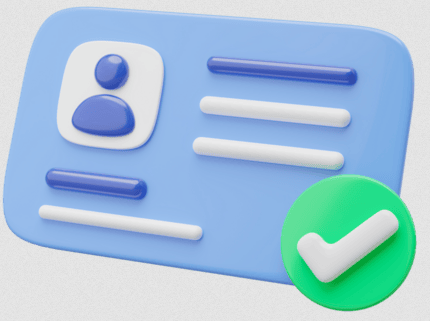
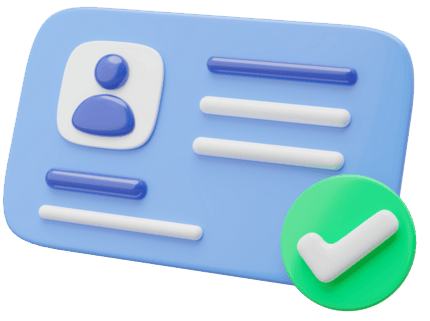
Portal V1.40: reupload do icone dados.png (fundo transparente) + cache-bust

Changed region(s): [[0.0, 0.0, 1.0, 1.0]]

diff --git a/index.html b/index.html
@@ -16,7 +16,7 @@
   <meta property="og:image:height" content="546" />
   <meta property="og:url" content="https://portal.prbelico.com.br/" />
   <meta property="og:type" content="website" />
-  <link rel="stylesheet" href="styles.css?v=1.39" />
+  <link rel="stylesheet" href="styles.css?v=1.40" />
   <link rel="icon" href="favicon.png" type="image/png" />
 </head>
 <body class="login-body">
@@ -61,7 +61,7 @@
         <span id="btn-texto">Entrar</span>
       </button>
 
-      <div style="text-align:center;font-size:11px;color:var(--muted);margin-top:10px">V1.39</div>
+      <div style="text-align:center;font-size:11px;color:var(--muted);margin-top:10px">V1.40</div>
 
       <div class="error-msg" id="erro"></div>
     </form>

diff --git a/portal.js b/portal.js
@@ -105,7 +105,7 @@ const ICONS = {
   validades:   `<img src="${IMG}validades.png?v=137" alt="" class="ico-img" onerror="this.style.display='none'">`,
   armas:       `<img src="${IMG}acervo.png?v=137" alt="" class="ico-img" onerror="this.style.display='none'">`,
   informacoes: `<img src="${IMG}informacoes.png?v=137" alt="" class="ico-img" onerror="this.style.display='none'">`,
-  dados:       `<img src="${IMG}dados.png?v=138" alt="" class="ico-img" onerror="this.style.display='none'">`,
+  dados:       `<img src="${IMG}dados.png?v=140" alt="" class="ico-img" onerror="this.style.display='none'">`,
 };
 
 // ---- ÍCONES DOS TIPOS DE ACERVO (imagens) ----

diff --git a/portal.html b/portal.html
@@ -8,7 +8,7 @@
   <meta http-equiv="Pragma" content="no-cache" />
   <meta http-equiv="Expires" content="0" />
   <title>Portal do Cliente — P&amp;R Despachante Bélico</title>
-  <link rel="stylesheet" href="styles.css?v=1.39" />
+  <link rel="stylesheet" href="styles.css?v=1.40" />
   <link rel="icon" href="favicon.png" type="image/png" />
 </head>
 <body class="portal-body">
@@ -36,6 +36,6 @@
 
 </main>
 
-<script src="portal.js?v=1.39"></script>
+<script src="portal.js?v=1.40"></script>
 </body>
 </html>
